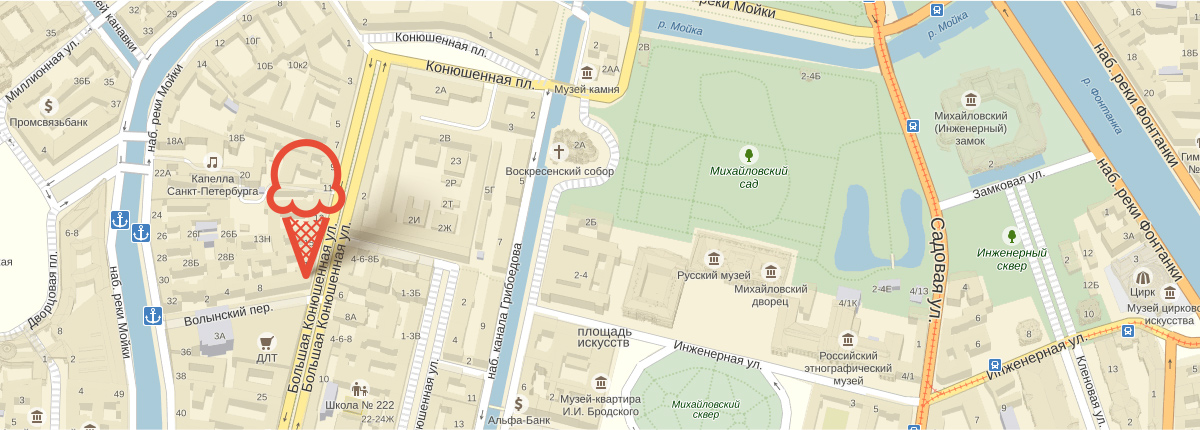
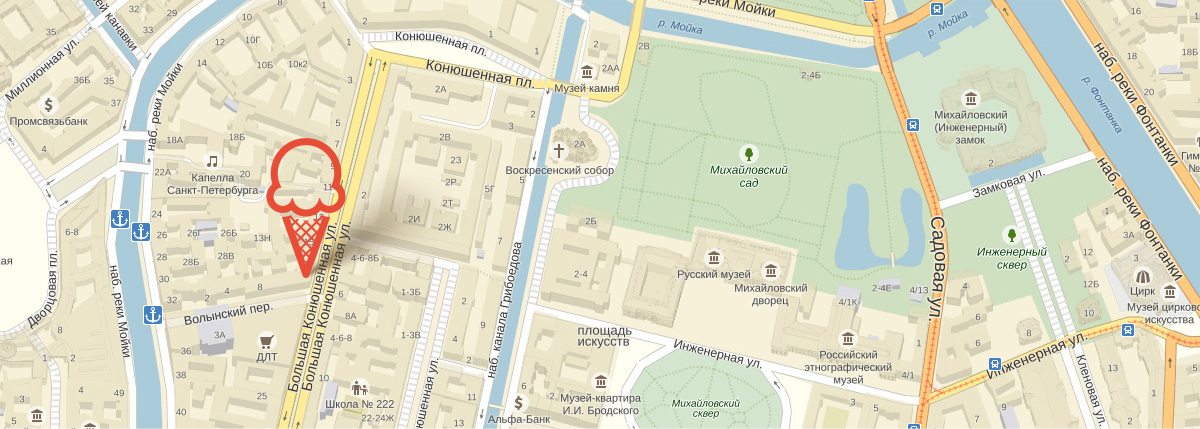
Подрезала карту

diff --git a/index.html b/index.html
@@ -174,7 +174,7 @@
                     </div>
                     <section class="map-and-contacts">
                         <h2 class="visually-hidden">Контактная информация</h2>
-                        <img class="map-image" src="img/map.jpg" width="1200" height="430" alt="Адрес офлайн-магазина: ул. Большая Конюшенная 19/8, Санкт-Петербург">
+                        <img class="map-image" src="img/map.jpg" width="1200" height="429" alt="Адрес офлайн-магазина: ул. Большая Конюшенная 19/8, Санкт-Петербург">
                         <div class="contacts">
                             <p>Адрес главного офиса <br>и офлайн-магазина:<br>
                                 <span class="contacts-font-big">ул. Большая Конюшенная 19/8, Санкт-Петербург</span>

diff --git a/css/style.css b/css/style.css
@@ -1131,7 +1131,7 @@ a {
 
 
 .features {
-    margin-top: 40px;
+    margin-top: 37px;
     margin-bottom: 40px;
     padding: 24px 20px;
     color: #323232;
